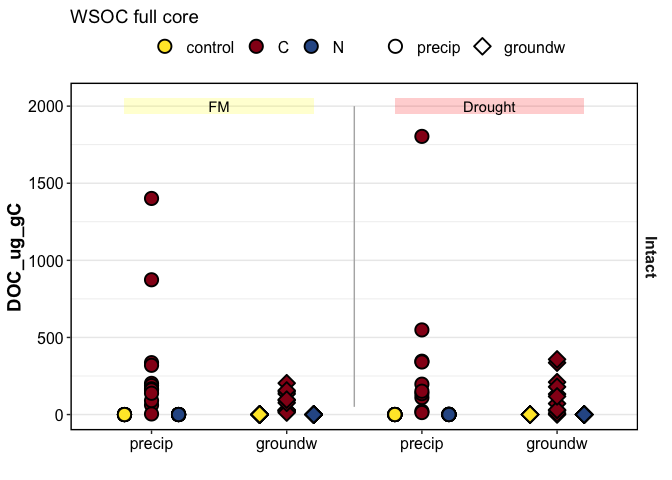
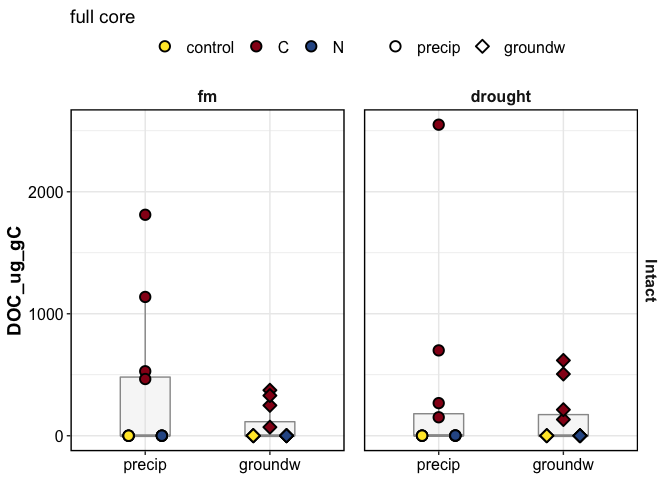
WSOC plot for homogenization

diff --git a/reports/doc_drake_md_report.md b/reports/doc_drake_md_report.md
@@ -11,20 +11,44 @@ full core
 
 ![](markdown-figs/doc/doc_boxplot_intact-1.png)<!-- -->
 
-    #> [1] NA
+![](markdown-figs/doc/doc_boxplot_homo-1.png)<!-- -->
 
 ## TABLES
 
-| Homogenization | Moisture | Wetting | control        | C               | N           |
-| :------------- | :------- | :------ | :------------- | :-------------- | :---------- |
-| Intact         | fm       | precip  | 0.25 ± 0.03    | 985.72 ± 314.24 | 0.49 ± 0.15 |
-| Intact         | fm       | groundw | 0.32 ± 0.09    | 255.51 ± 66.81  | 0.33 ± 0.22 |
-| Intact         | drought  | precip  | 0.66 ± 0.14    | 917.11 ± 556.88 | 1.44 ± 0.49 |
-| Intact         | drought  | groundw | 0.46 ± 0.04    | 367.52 ± 115.62 | 0.29 ± 0.11 |
-| Homogenized    | fm       | precip  | 0.49 ± 0.08    | 48.59 ± 16.75   | 0.38 ± 0.18 |
-| Homogenized    | fm       | groundw | 0.65 ± 0.16    | 1.13 ± 0.15     | 0.38 ± 0.09 |
-| Homogenized    | drought  | precip  | 100.12 ± 48.42 | 4.65 ± 2.28     | 1.13 ± 0.25 |
-| Homogenized    | drought  | groundw | 76.07 ± 55.47  | 20.63 ± 8.28    | 1.38 ± 0.49 |
+| Homogenization | Moisture | Wetting | Suction   | control        | C               | N           |
+| :------------- | :------- | :------ | :-------- | :------------- | :-------------- | :---------- |
+| Intact         | fm       | precip  | 1.5       | 0.11 ± 0.03    | 115.93 ± 44.03  | 0.18 ± 0.07 |
+| Intact         | fm       | precip  | 15        | 0.07 ± 0.02    | 692.98 ± 280.75 | 0.26 ± 0.13 |
+| Intact         | fm       | precip  | 50        | 0.1 ± 0.01     | 176.8 ± 54.17   | 0.09 ± 0.03 |
+| Intact         | fm       | precip  | full core | 0.25 ± 0.03    | 985.72 ± 314.24 | 0.49 ± 0.15 |
+| Intact         | fm       | groundw | 1.5       | 0.2 ± 0.11     | 54.87 ± 17.07   | 0.7 ± NA    |
+| Intact         | fm       | groundw | 15        | 0.05 ± 0.01    | 134.28 ± 36.88  | 0.09 ± 0.03 |
+| Intact         | fm       | groundw | 50        | 0.1 ± 0.06     | 66.36 ± 29.44   | 0.06 ± 0.04 |
+| Intact         | fm       | groundw | full core | 0.32 ± 0.09    | 255.51 ± 66.81  | 0.33 ± 0.22 |
+| Intact         | drought  | precip  | 1.5       | 0.21 ± 0.11    | 602.85 ± 403.62 | 1.24 ± 0.44 |
+| Intact         | drought  | precip  | 15        | 0.22 ± 0.09    | 194.45 ± 177.23 | 0.16 ± 0.14 |
+| Intact         | drought  | precip  | 50        | 0.23 ± 0.06    | 224.57 ± 60.76  | 0.1 ± 0.03  |
+| Intact         | drought  | precip  | full core | 0.66 ± 0.14    | 917.11 ± 556.88 | 1.44 ± 0.49 |
+| Intact         | drought  | groundw | 1.5       | 0.2 ± NA       | 251.63 ± 56.07  | 0.17 ± 0.08 |
+| Intact         | drought  | groundw | 15        | 0.1 ± 0.03     | 42.28 ± 14.52   | 0.07 ± 0.03 |
+| Intact         | drought  | groundw | 50        | 0.17 ± 0.09    | 84.17 ± 49.82   | 0.05 ± 0.01 |
+| Intact         | drought  | groundw | full core | 0.46 ± 0.04    | 367.52 ± 115.62 | 0.29 ± 0.11 |
+| Homogenized    | fm       | precip  | 1.5       | 0.29 ± 0.08    | 2.33 ± 2.12     | 0.16 ± 0.05 |
+| Homogenized    | fm       | precip  | 15        | 0.08 ± 0.01    | 16.74 ± 13.08   | 0.17 ± 0.08 |
+| Homogenized    | fm       | precip  | 50        | 0.12 ± 0.02    | 33.71 ± 10.44   | 0.13 ± 0.11 |
+| Homogenized    | fm       | precip  | full core | 0.49 ± 0.08    | 48.59 ± 16.75   | 0.38 ± 0.18 |
+| Homogenized    | fm       | groundw | 1.5       | 0.4 ± 0.12     | 0.86 ± 0.29     | 0.26 ± 0.05 |
+| Homogenized    | fm       | groundw | 15        | 0.08 ± 0.02    | 0.41 ± 0.35     | 0.1 ± 0.01  |
+| Homogenized    | fm       | groundw | 50        | 0.17 ± 0.04    | NA              | 0.14 ± 0.03 |
+| Homogenized    | fm       | groundw | full core | 0.65 ± 0.16    | 1.13 ± 0.15     | 0.38 ± 0.09 |
+| Homogenized    | drought  | precip  | 1.5       | 22.33 ± 14.52  | 0.3 ± 0.18      | 0.56 ± 0.3  |
+| Homogenized    | drought  | precip  | 15        | 22.41 ± 16.63  | 1.18 ± 0.93     | 0.13 ± 0.05 |
+| Homogenized    | drought  | precip  | 50        | 60.99 ± 32.17  | 3.17 ± 1.61     | 0.48 ± 0.22 |
+| Homogenized    | drought  | precip  | full core | 100.12 ± 48.42 | 4.65 ± 2.28     | 1.13 ± 0.25 |
+| Homogenized    | drought  | groundw | 1.5       | 12.25 ± 7.63   | 9.32 ± 5.45     | 0.81 ± 0.21 |
+| Homogenized    | drought  | groundw | 15        | 27.46 ± 25.86  | 2.88 ± 0.87     | 0.38 ± 0.34 |
+| Homogenized    | drought  | groundw | 50        | 48.49 ± 34.4   | 8.43 ± 2.88     | 0.29 ± 0.19 |
+| Homogenized    | drought  | groundw | full core | 76.07 ± 55.47  | 20.63 ± 8.28    | 1.38 ± 0.49 |
 
 ## what influenced DOC?
 
@@ -114,11 +138,11 @@ how much DOC was added as part of the amendment?
 
 <summary>click to expand</summary>
 
-Date run: 2020-10-21
+Date run: 2020-12-08
 
     #> R version 4.0.2 (2020-06-22)
     #> Platform: x86_64-apple-darwin17.0 (64-bit)
-    #> Running under: macOS Catalina 10.15.6
+    #> Running under: macOS Catalina 10.15.7
     #> 
     #> Matrix products: default
     #> BLAS:   /System/Library/Frameworks/Accelerate.framework/Versions/A/Frameworks/vecLib.framework/Versions/A/libBLAS.dylib
@@ -131,46 +155,32 @@ Date run: 2020-10-21
     #> [1] stats     graphics  grDevices utils     datasets  methods   base     
     #> 
     #> other attached packages:
-    #>  [1] patchwork_1.0.1 car_3.0-9       carData_3.0-4   drake_7.12.4   
-    #>  [5] ggbiplot_0.55   PNWColors_0.1.0 forcats_0.5.0   stringr_1.4.0  
-    #>  [9] dplyr_1.0.1     purrr_0.3.4     readr_1.3.1     tidyr_1.1.1    
+    #>  [1] patchwork_1.0.1 lme4_1.1-23     Matrix_1.2-18   drake_7.12.4    ggbiplot_0.55   PNWColors_0.1.0
+    #>  [7] forcats_0.5.0   stringr_1.4.0   dplyr_1.0.1     purrr_0.3.4     readr_1.3.1     tidyr_1.1.1    
     #> [13] tibble_3.0.3    ggplot2_3.3.2   tidyverse_1.3.0
     #> 
     #> loaded via a namespace (and not attached):
-    #>   [1] minqa_1.2.4        colorspace_1.4-1   ellipsis_0.3.1    
-    #>   [4] class_7.3-17       rio_0.5.16         fs_1.5.0          
-    #>   [7] gld_2.6.2          rstudioapi_0.11    farver_2.0.3      
-    #>  [10] soilpalettes_0.1.0 fansi_0.4.1        mvtnorm_1.1-1     
-    #>  [13] lubridate_1.7.9    xml2_1.3.2         splines_4.0.2     
-    #>  [16] rootSolve_1.8.2.1  knitr_1.29         jsonlite_1.7.0    
-    #>  [19] nloptr_1.2.2.2     packrat_0.5.0      broom_0.7.0       
-    #>  [22] cluster_2.1.0      dbplyr_1.4.4       shiny_1.5.0       
-    #>  [25] compiler_4.0.2     httr_1.4.2         backports_1.1.8   
-    #>  [28] assertthat_0.2.1   Matrix_1.2-18      fastmap_1.0.1     
-    #>  [31] cli_2.0.2          later_1.1.0.1      prettyunits_1.1.1 
-    #>  [34] htmltools_0.5.0    tools_4.0.2        igraph_1.2.5      
-    #>  [37] gtable_0.3.0       agricolae_1.3-3    glue_1.4.1        
-    #>  [40] lmom_2.8           Rcpp_1.0.5         cellranger_1.1.0  
-    #>  [43] vctrs_0.3.2        nlme_3.1-148       xfun_0.16         
-    #>  [46] openxlsx_4.1.5     lme4_1.1-23        rvest_0.3.6       
-    #>  [49] mime_0.9           miniUI_0.1.1.1     lifecycle_0.2.0   
-    #>  [52] statmod_1.4.34     MASS_7.3-51.6      scales_1.1.1      
-    #>  [55] hms_0.5.3          promises_1.1.1     parallel_4.0.2    
-    #>  [58] expm_0.999-5       yaml_2.2.1         curl_4.3          
-    #>  [61] Exact_2.1          labelled_2.5.0     stringi_1.4.6     
-    #>  [64] highr_0.8          klaR_0.6-15        AlgDesign_1.2.0   
-    #>  [67] e1071_1.7-3        filelock_1.0.2     boot_1.3-25       
-    #>  [70] zip_2.1.0          storr_1.2.1        rlang_0.4.7       
-    #>  [73] pkgconfig_2.0.3    evaluate_0.14      lattice_0.20-41   
-    #>  [76] labeling_0.3       tidyselect_1.1.0   plyr_1.8.6        
-    #>  [79] magrittr_1.5       R6_2.4.1           DescTools_0.99.38 
-    #>  [82] generics_0.0.2     base64url_1.4      combinat_0.0-8    
-    #>  [85] txtq_0.2.3         DBI_1.1.0          pillar_1.4.6      
-    #>  [88] haven_2.3.1        foreign_0.8-80     withr_2.2.0       
-    #>  [91] abind_1.4-5        modelr_0.1.8       crayon_1.3.4      
-    #>  [94] questionr_0.7.1    rmarkdown_2.3      progress_1.2.2    
-    #>  [97] grid_4.0.2         readxl_1.3.1       data.table_1.13.0 
-    #> [100] blob_1.2.1         reprex_0.3.0       digest_0.6.25     
-    #> [103] xtable_1.8-4       httpuv_1.5.4       munsell_0.5.0
+    #>   [1] minqa_1.2.4        colorspace_1.4-1   ggsignif_0.6.0     ellipsis_0.3.1     class_7.3-17      
+    #>   [6] rio_0.5.16         fs_1.5.0           gld_2.6.2          rstudioapi_0.11    ggpubr_0.4.0      
+    #>  [11] farver_2.0.3       soilpalettes_0.1.0 fansi_0.4.1        mvtnorm_1.1-1      lubridate_1.7.9   
+    #>  [16] xml2_1.3.2         splines_4.0.2      rootSolve_1.8.2.1  knitr_1.29         jsonlite_1.7.0    
+    #>  [21] nloptr_1.2.2.2     packrat_0.5.0      broom_0.7.0        cluster_2.1.0      dbplyr_1.4.4      
+    #>  [26] shiny_1.5.0        compiler_4.0.2     httr_1.4.2         backports_1.1.8    fastmap_1.0.1     
+    #>  [31] assertthat_0.2.1   cli_2.0.2          later_1.1.0.1      htmltools_0.5.0    prettyunits_1.1.1 
+    #>  [36] tools_4.0.2        igraph_1.2.5       agricolae_1.3-3    gtable_0.3.0       glue_1.4.1        
+    #>  [41] lmom_2.8           Rcpp_1.0.5         carData_3.0-4      cellranger_1.1.0   vctrs_0.3.2       
+    #>  [46] nlme_3.1-148       xfun_0.16          openxlsx_4.1.5     rvest_0.3.6        mime_0.9          
+    #>  [51] miniUI_0.1.1.1     lifecycle_0.2.0    statmod_1.4.34     rstatix_0.6.0      MASS_7.3-51.6     
+    #>  [56] scales_1.1.1       promises_1.1.1     hms_0.5.3          parallel_4.0.2     expm_0.999-5      
+    #>  [61] yaml_2.2.1         curl_4.3           Exact_2.1          labelled_2.5.0     stringi_1.4.6     
+    #>  [66] AlgDesign_1.2.0    klaR_0.6-15        highr_0.8          e1071_1.7-3        filelock_1.0.2    
+    #>  [71] boot_1.3-25        zip_2.1.0          storr_1.2.1        rlang_0.4.7        pkgconfig_2.0.3   
+    #>  [76] evaluate_0.14      lattice_0.20-41    labeling_0.3       cowplot_1.0.0      tidyselect_1.1.0  
+    #>  [81] plyr_1.8.6         magrittr_1.5       R6_2.4.1           DescTools_0.99.38  generics_0.0.2    
+    #>  [86] combinat_0.0-8     base64url_1.4      txtq_0.2.3         DBI_1.1.0          pillar_1.4.6      
+    #>  [91] haven_2.3.1        foreign_0.8-80     withr_2.2.0        mgcv_1.8-31        abind_1.4-5       
+    #>  [96] questionr_0.7.1    modelr_0.1.8       crayon_1.3.4       car_3.0-9          rmarkdown_2.3     
+    #> [101] progress_1.2.2     grid_4.0.2         readxl_1.3.1       data.table_1.13.0  blob_1.2.1        
+    #> [106] reprex_0.3.0       digest_0.6.25      xtable_1.8-4       httpuv_1.5.4       munsell_0.5.0
 
 </details>
